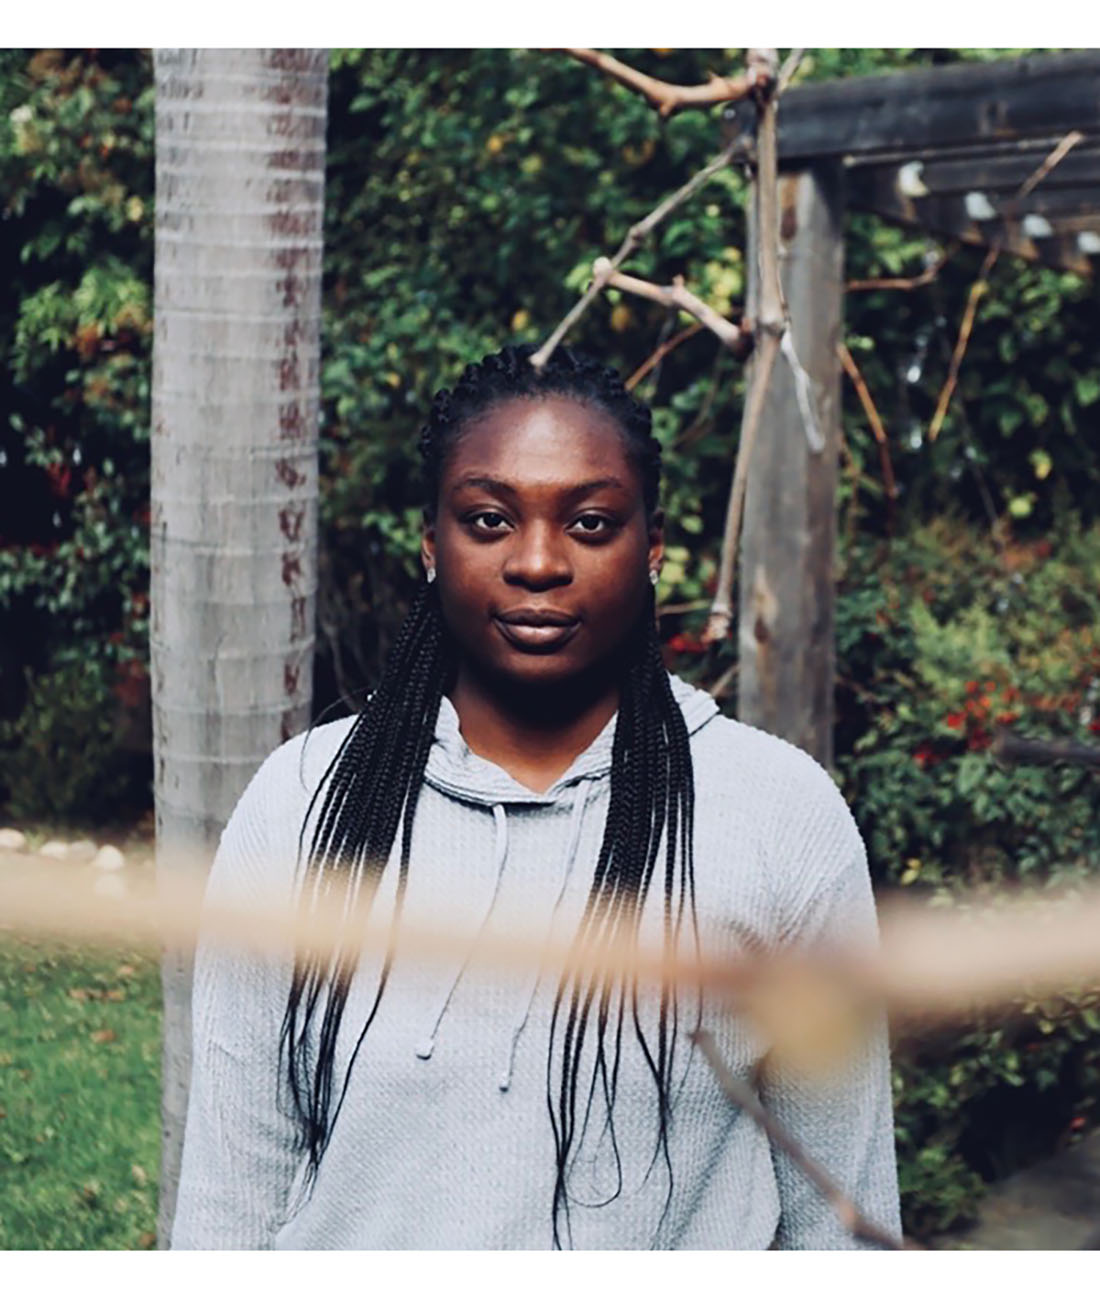
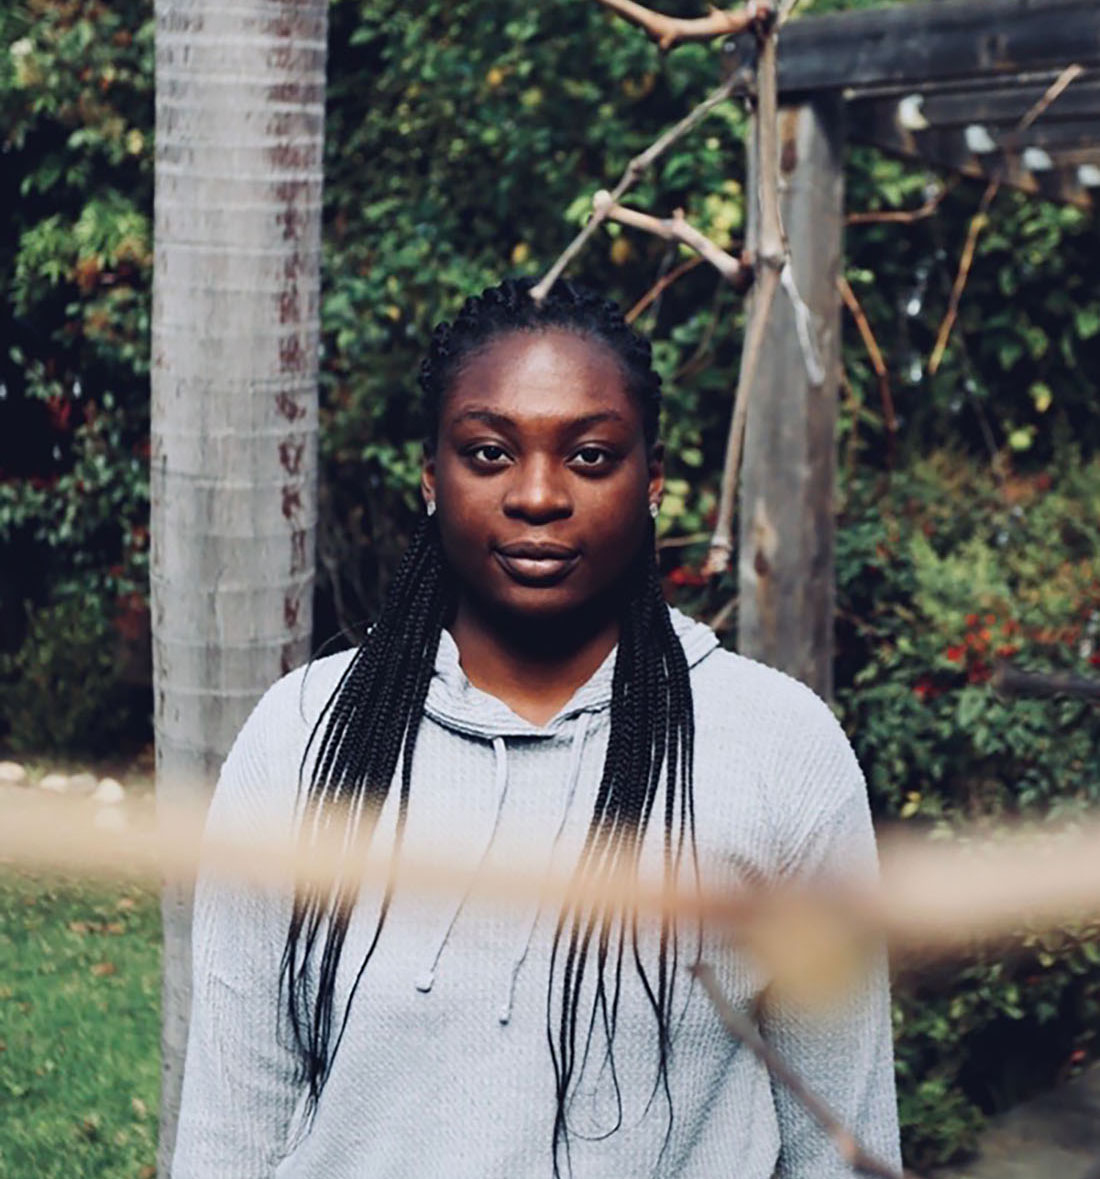
fixed accesibility issues

diff --git a/javascript/htmlBuilder.js b/javascript/htmlBuilder.js
@@ -229,7 +229,7 @@ var aboutContent =
         <div class = "col l3 responsiveProfile">
             <div class="card large" id="Habby-Card">
                 <div class="card-image">
-                    <img src="images/Habby.jpg" alt="Habby Olusesi, site developer, profile picture">
+                    <img src="images/HabbyA.jpg" alt="Habby Olusesi, site developer, profile picture">
                     <span class="card-title">Habby Olusesi</span>
                 </div>
                 <div class="card-content">
@@ -244,11 +244,11 @@ var aboutContent =
         <div class = "col l3 responsiveProfile">
             <div class="card large" id="Elijah-Card">
                 <div class="card-image">
-                    <img src="images/sample-1.jpeg" alt="Elijah Melanson, site developer, profile picture">
+                    <img src="images/ElijahMheadshot.jpg" alt="Elijah Melanson, site developer, profile picture">
                     <span class="card-title">Elijah Melanson</span>
                 </div>
                 <div class="card-content">
-                    <p>I am a very simple card. I am good at containing small bits of information. I am convenient because I require little markup to use effectively.</p>
+                    <p>Berklee-educated guitarist and music educator foraying into web design.  Seeking to create a new career with experience in audio engineering and visual design.</p>
                 </div>
                 <div class="card-action">
                     <p><a href="https://github.com/emelanson" target="_blank"><i class="fab fa-github"></i>&nbspGitHub</a><p>
@@ -262,7 +262,7 @@ var aboutContent =
     <ul class="collection with-header">
         <li class="collection-header"><h4 class="center-header">Core Features</h4></li>
         <li class="collection-item"><div><i class="fas fa-angle-double-right"></i>&nbspBadgeriO allows users to gather information about domains, save queries, and generate meaningful reports.<a href="#organicSearch" class="secondary-content">Details</a></div></li>
-        <li class="collection-item"><div><i class="fas fa-angle-double-right"></i>&nbspOnce logged in, you gain access to a modular, custom, reporting dashboard.<a href="#backIndex" class="secondary-content">Details</a></div></li>
+        <li class="collection-item"><div><i class="fas fa-angle-double-right"></i>&nbspOnce you are logged in, you gain access to a modular, custom, reporting dashboard.<a href="#backIndex" class="secondary-content">Details</a></div></li>
         <li class="collection-item"><div><i class="fas fa-angle-double-right"></i>&nbspAdd your own API keys to unclock the power of Varoius Search APIs.<a href="#commonFile" class="secondary-content">Details</a></div></li>
         <li class="collection-item"><div><i class="fas fa-angle-double-right"></i>&nbspYou are going to have to ask Mike about anything else!<a href="#emailDiscovery" class="secondary-content">Details</a></div></li>
     </ul>

diff --git a/index.html b/index.html
@@ -24,7 +24,7 @@
   <div class = "container" id="navContainer">
     <div class = "row">
         <div class="navbar-fixed">
-          <nav class="nav-extended teal darken-1">           
+          <nav class="nav-extended teal darken-4">           
             <div class="nav-wrapper">
               <a href="index.html" class="brand-logo" id="home-page-logo"><img src="images/favicons/BadgeriOIcon.png" style="max-height: 100px; max-width: 100px;" alt="BadgeriO styled logo"></a>  
               <a data-target="mobile-demo" href="#" class="sidenav-trigger"><i class="material-icons">menu</i></a>
@@ -97,8 +97,8 @@
                 <ul class="section table-of-contents fixed" id = "scrollBar">
                   <li><a href="#slideShowAndDots">Slides</a></li>
                   <li><a href="#footerContainer">Footer</a></li>
-                  <li><a href="#slideShowAndDots">Section3</a></li>
-                  <li><a href="#slideShowAndDots">Section4</a></li>
+                  <li><a href="#slideShowAndDots">Section 3</a></li>
+                  <li><a href="#slideShowAndDots">Section 4</a></li>
                 </ul>
               </div>
             </div>
@@ -108,7 +108,7 @@
     </div>
   </div>
   <!-- Sticky Footer - on all pages -->
-  <footer class="page-footer teal darken-1">
+  <footer class="page-footer teal darken-4">
     <div class="container" id="footerContainer">
       <div class="row">
         <div class="col l6">

diff --git a/stylesheets/manualStyle.css b/stylesheets/manualStyle.css
@@ -40,14 +40,13 @@ main {
 
 /* have the log in option stand out for returning customers desktop and mobile */
 .log-in-black {
-    color: black !important;
+    color: wheat !important;
 }
 
 /* Navbar content styling */
 #navContainer{
   min-width: 100% !important;
   padding: 0px;
-
 }
 .nav-extended, .nav-wrapper {
   z-index: 1;
@@ -71,11 +70,14 @@ nav {
   margin-left: 1%;
 }
 
-/* SCroll Bar */
-#scrollBar {
+/* Scroll Bar */
+#scrollBar a{
   position: sticky;
   top: 0;
   bottom: 0;
+  padding-left: 0px;
+  font-size: 20px;
+  line-height: 2;
 }
 
 /* Sticky footer */
@@ -142,7 +144,9 @@ color: black !important;
   float:right !important;
   margin-top: 4%;
   margin-bottom: 1%;
-
+}
+.collection li.collection-item {
+  margin: 10px;
 }
 .featureButtonL {
   margin: 5px;
@@ -240,7 +244,7 @@ margin-right: auto;
 .text {
   color: #f2f2f2;
   background-color: black;
-  font-size: 15px;
+  font-size: 20px;
   padding: 8px 12px;
   position: absolute;
   bottom: 0.001px;
